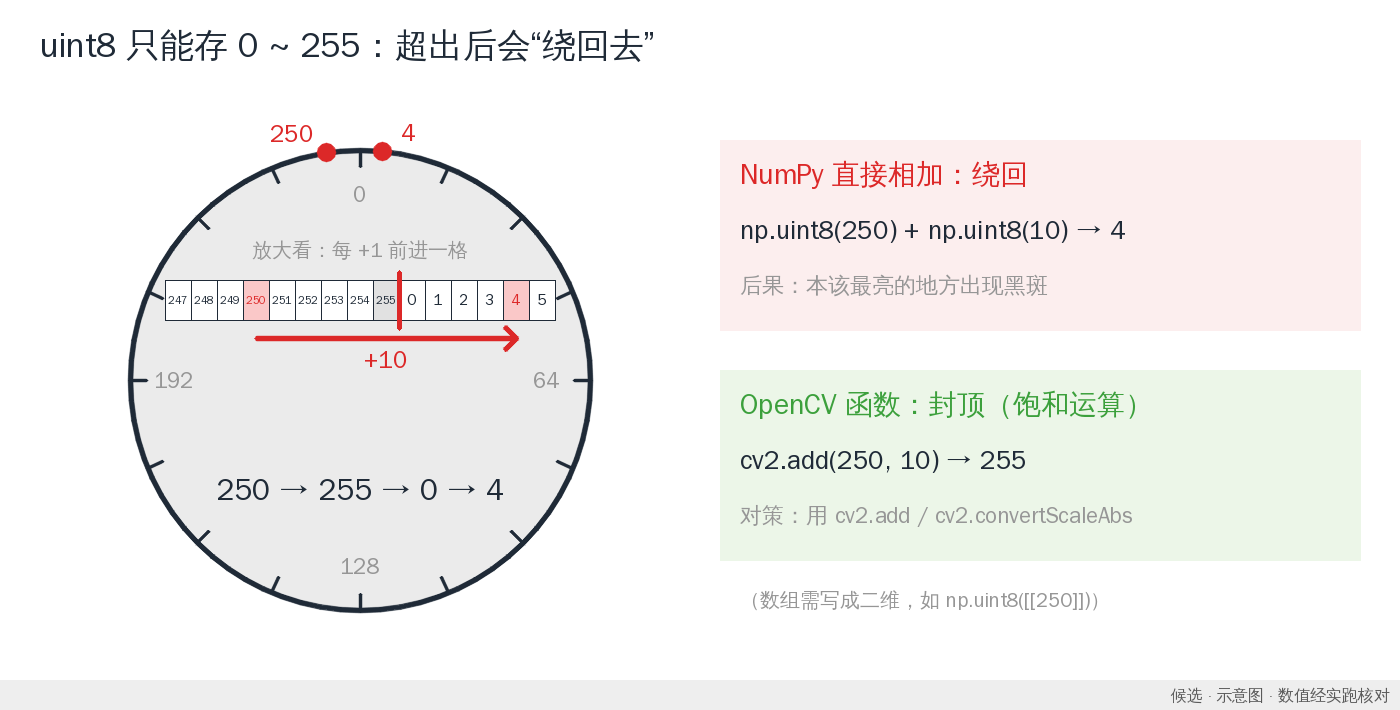
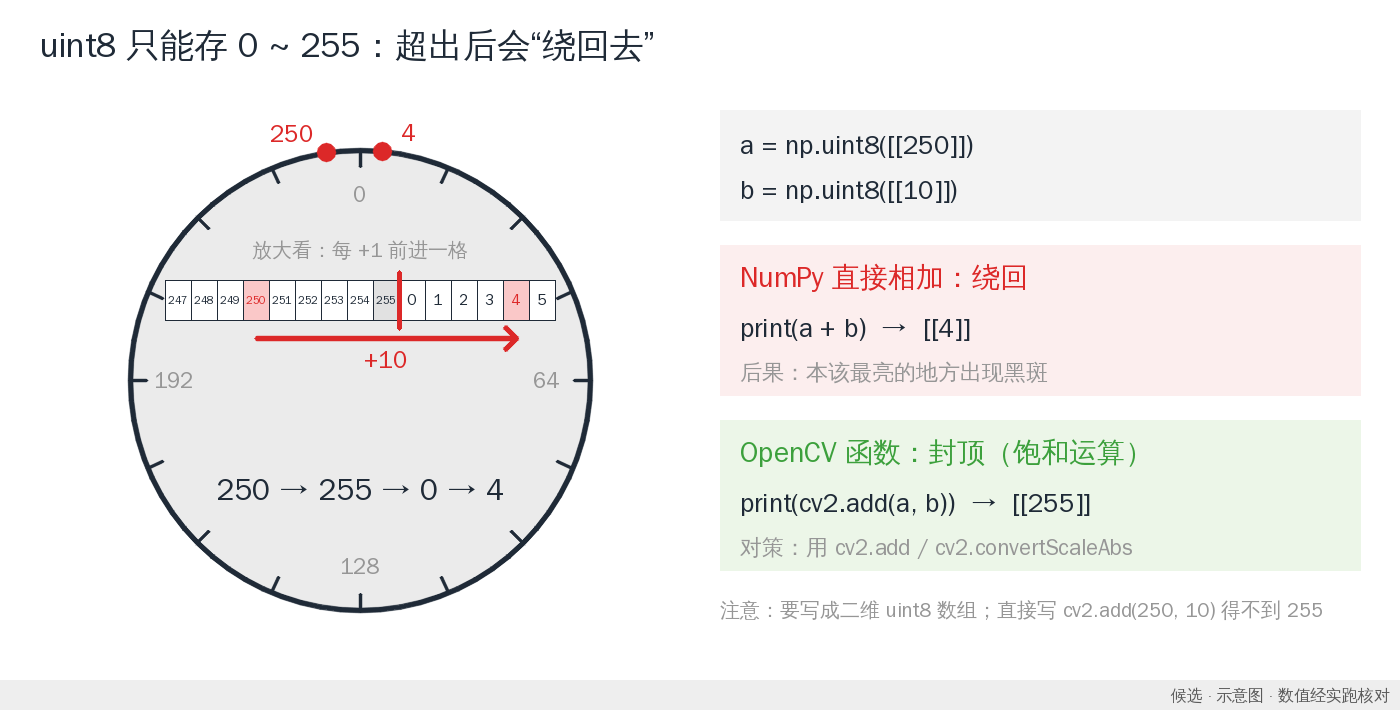
Fix 19-P5 candidate: show real 2D uint8 cv2.add example
Replace the misleading cv2.add(250, 10) -> 255 snippet with the tested
a = np.uint8([[250]]), b = np.uint8([[10]]) form; values are written from
the actual run. Regenerate preview and run log; other previews unchanged.

Claude-Session: https://claude.ai/code/session_012twwy18khSjnsRNM4X7Dnh

diff --git a/draft/collaboration/claude_16_20/scripts/l19_brightness.py b/draft/collaboration/claude_16_20/scripts/l19_brightness.py
@@ -105,15 +105,21 @@ def p5_dial():
     c = text(c, "250 → 255 → 0 → 4", (cx, cy + 110), 30, INK, anchor="mm")
     # 右侧对照
     x0 = 720
-    cv2.rectangle(c, (x0, 140), (W - 40, 330), (238, 238, 252), -1)
-    c = text(c, "NumPy 直接相加：绕回", (x0 + 20, 175), 28, RED, anchor="lm")
-    c = text(c, f"np.uint8(250) + np.uint8(10) → {wrap}", (x0 + 20, 230), 26, INK, anchor="lm")
-    c = text(c, "后果：本该最亮的地方出现黑斑", (x0 + 20, 285), 22, GRAY, anchor="lm")
-    cv2.rectangle(c, (x0, 370), (W - 40, 560), (232, 246, 236), -1)
-    c = text(c, "OpenCV 函数：封顶（饱和运算）", (x0 + 20, 405), 28, GREEN, anchor="lm")
-    c = text(c, f"cv2.add(250, 10) → {sat}", (x0 + 20, 460), 26, INK, anchor="lm")
-    c = text(c, "对策：用 cv2.add / cv2.convertScaleAbs", (x0 + 20, 515), 22, GRAY, anchor="lm")
-    c = text(c, "（数组需写成二维，如 np.uint8([[250]])）", (x0 + 20, 600), 20, GRAY, anchor="lm")
+    wrap_s, sat_s = (a + b).tolist(), cv2.add(a, b).tolist()        # 实跑结果，直接写进图里
+    scalar = cv2.add(250, 10)                                         # 对照：标量调用不是 uint8 饱和
+    print(f"    对照：cv2.add(250, 10) 返回 {scalar.dtype} {scalar.ravel().tolist()}（不是 uint8 饱和，图中不使用）")
+    cv2.rectangle(c, (x0, 110), (W - 40, 220), (243, 243, 243), -1)
+    c = text(c, "a = np.uint8([[250]])", (x0 + 20, 145), 26, INK, anchor="lm")
+    c = text(c, "b = np.uint8([[10]])", (x0 + 20, 190), 26, INK, anchor="lm")
+    cv2.rectangle(c, (x0, 245), (W - 40, 395), (238, 238, 252), -1)
+    c = text(c, "NumPy 直接相加：绕回", (x0 + 20, 278), 28, RED, anchor="lm")
+    c = text(c, f"print(a + b)  →  {wrap_s}", (x0 + 20, 328), 26, INK, anchor="lm")
+    c = text(c, "后果：本该最亮的地方出现黑斑", (x0 + 20, 372), 22, GRAY, anchor="lm")
+    cv2.rectangle(c, (x0, 420), (W - 40, 570), (232, 246, 236), -1)
+    c = text(c, "OpenCV 函数：封顶（饱和运算）", (x0 + 20, 453), 28, GREEN, anchor="lm")
+    c = text(c, f"print(cv2.add(a, b))  →  {sat_s}", (x0 + 20, 503), 26, INK, anchor="lm")
+    c = text(c, "对策：用 cv2.add / cv2.convertScaleAbs", (x0 + 20, 547), 22, GRAY, anchor="lm")
+    c = text(c, "注意：要写成二维 uint8 数组；直接写 cv2.add(250, 10) 得不到 255", (x0, 610), 20, GRAY, anchor="lm")
     save(stamp(c, "候选 · 示意图 · 数值经实跑核对"), L, "19-p5-diag-uint8溢出表盘_候选.png")
 
 

diff --git a/draft/collaboration/claude_16_20/review.md b/draft/collaboration/claude_16_20/review.md
@@ -46,7 +46,7 @@
 |---|---|---|---|
 | P2 | 暗图与调整后对比 | ✅ img/19_1.png（据代码：室内视频帧人工压暗 α=0.35 后再调亮，属合成暗图） | — 如需真实暗图，可用本机 dark.jpg。 |
 | P4 | **公式与 α、β 作用示意** | ⬜ 待找/待做；旧图“需改”（画成了 addWeighted） | 🆕 `19-p4-diag-公式与alpha_beta作用_候选.png`：公式 + 四条映射曲线（β=+50、β=-50、α=1.5、α=0.5）+ 灰度渐变条前后对比，含 0/255 封顶封底。β<0 一栏按脚本 P7 解说用 float + np.clip 计算。 |
-| P5 | **表盘绕圈示意：250→255→0→4** | ⬜ 待找/待做；旧图“需改”（对策漏 np.clip） | 🆕 `19-p5-diag-uint8溢出表盘_候选.png`：0—255 表盘 + 放大数字条（247…255｜0…5，+10 跨越）；右侧 NumPy 绕回 4 / cv2.add 封顶 255（均实跑），对策按审核意见改为“用 cv2.add / convertScaleAbs”，并注明数组需写成二维。 |
+| P5 | **表盘绕圈示意：250→255→0→4** | ⬜ 待找/待做；旧图“需改”（对策漏 np.clip） | 🆕 `19-p5-diag-uint8溢出表盘_候选.png`：0—255 表盘 + 放大数字条（247…255｜0…5，+10 跨越）；右侧代码用二维 uint8 数组 `a = np.uint8([[250]])`、`b = np.uint8([[10]])`：`print(a + b) → [[4]]`、`print(cv2.add(a, b)) → [[255]]`（均实跑写入；2026-11-16 按 CODEX_REVIEW 返修，删除错误的 `cv2.add(250, 10) → 255` 写法），对策按审核意见改为“用 cv2.add / convertScaleAbs”。 |
 | P6 | 录屏1：img+100 黑斑 → cv2.add 正常 → 单像素 [[94]] [[255]] | 📷 img/19_2.png；录屏待做 | 📷 `19-p6-shot-溢出黑斑与cv2.add对比_替身图.png`（实跑 `[[94]] [[255]]`）。📝 实测：彩色照片上 `img + 100` 各通道分别绕回，除亮处变暗外还会出现**明显怪色**（替身图大面积变青绿）；纯白区域则统一变成深灰（255+100→99）。解说“深色斑块”对白色/天空区域成立，建议录屏选白色或天空占比大的图；如需，可在解说补“或者奇怪的颜色”（仅建议，未改脚本）。另：一维数组 `cv2.add(np.uint8([250]), np.uint8([100]))` 实测返回 `[350, 0, 0, 0]`，脚本中“必须写成二维”的提醒正确。 |
 | P7 | 录屏2：beta=50 → alpha=1.5 → 暗图修复 α1.3 β40 | 📷 img/19_3.png；录屏待做 | 📷 `19-p7-shot-convertScaleAbs三组对比_替身图.png`；暗图为替身图×0.3 合成（均值 29.6 → 修复后 78.5）。⏳ 需本机 dark.jpg 才能得到录屏真实效果。 |
 | P8 | 调整的分寸 | 无素材需求 | 可选：用 α=1.5、β=60 的过曝结果做“死白”示例，本次未做，待用户需要再补。 |

diff --git a/draft/collaboration/claude_16_20/README.md b/draft/collaboration/claude_16_20/README.md
@@ -58,8 +58,11 @@ claude_16_20/
 
 ## 运行说明
 
+以下命令仅用于**独立的新虚拟环境**（如云端或单独 venv）；本机课程环境已锁定，不要在其中安装、升级或替换 OpenCV / NumPy。
+
 ```bash
-pip install opencv-python==4.11.0.86 numpy pillow scikit-image
+python -m venv .venv-claude && . .venv-claude/bin/activate
+pip install opencv-python-headless==4.11.0.86 numpy pillow scikit-image
 python draft/collaboration/claude_16_20/scripts/run_all.py
 ```
 
@@ -67,3 +70,7 @@ python draft/collaboration/claude_16_20/scripts/run_all.py
 - 只写入 `previews/`，不读写本机 D:/E:/F: 路径，不触碰课程工程。
 - 单讲重跑：在 `scripts/` 下运行 `python l17_flip_rotate.py` 等。
 - 云端实际运行环境与输出见 `previews/run_log.txt`。
+
+## 返修记录
+
+- 2026-11-16（按 CODEX_REVIEW.md）：19-P5 右侧代码改为实测的二维 uint8 数组写法 `a = np.uint8([[250]])`、`b = np.uint8([[10]])`，`print(a + b) → [[4]]`、`print(cv2.add(a, b)) → [[255]]`，图中数值由脚本实跑结果直接写入；删除原错误示例 `cv2.add(250, 10) → 255`（实测该标量调用返回 float64 `[260, 260, 260, 260]`，已记入 run_log）。其余 20 份预览重新运行后字节一致，未改动。
